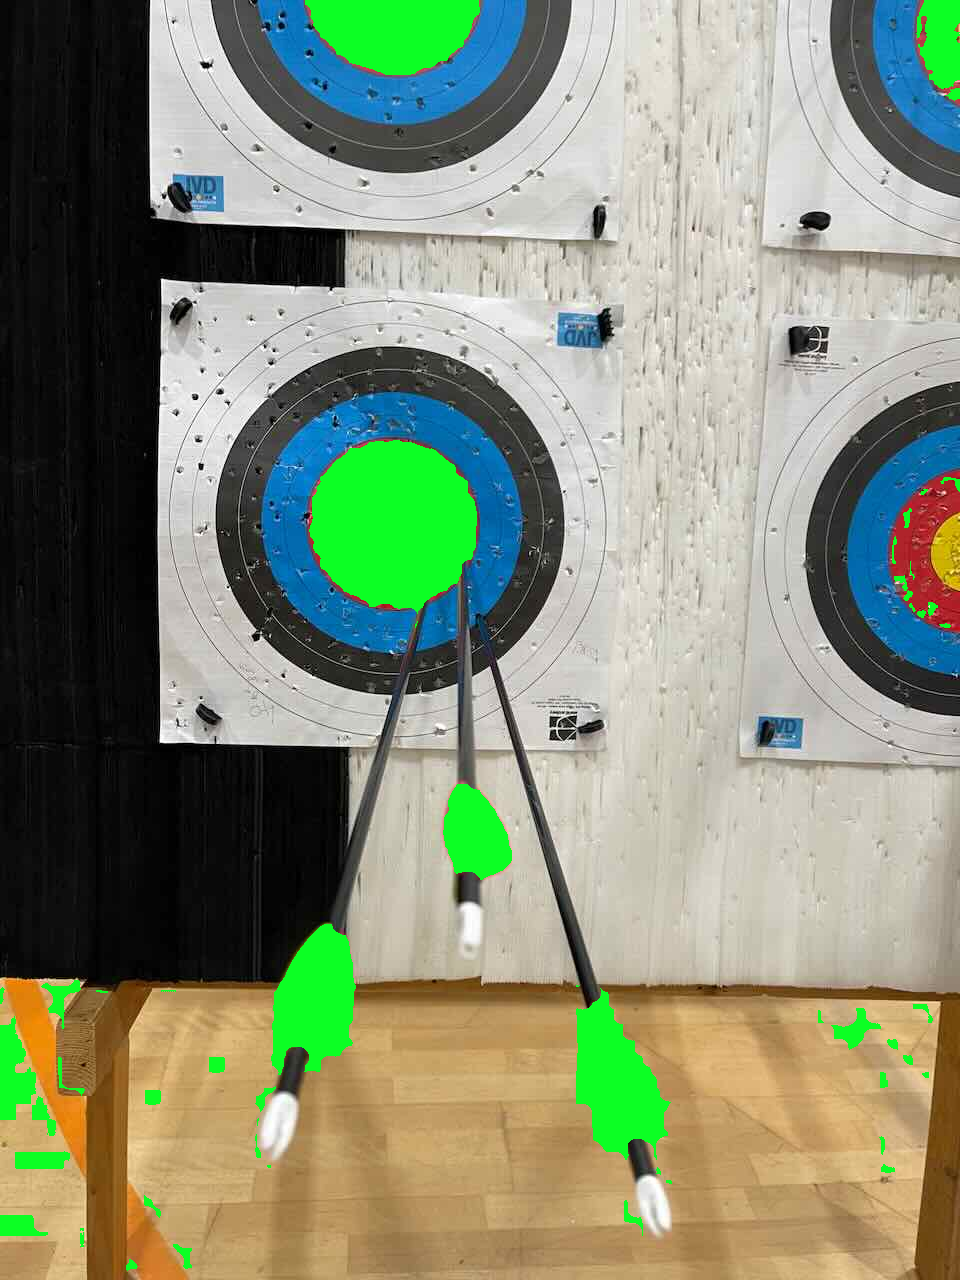
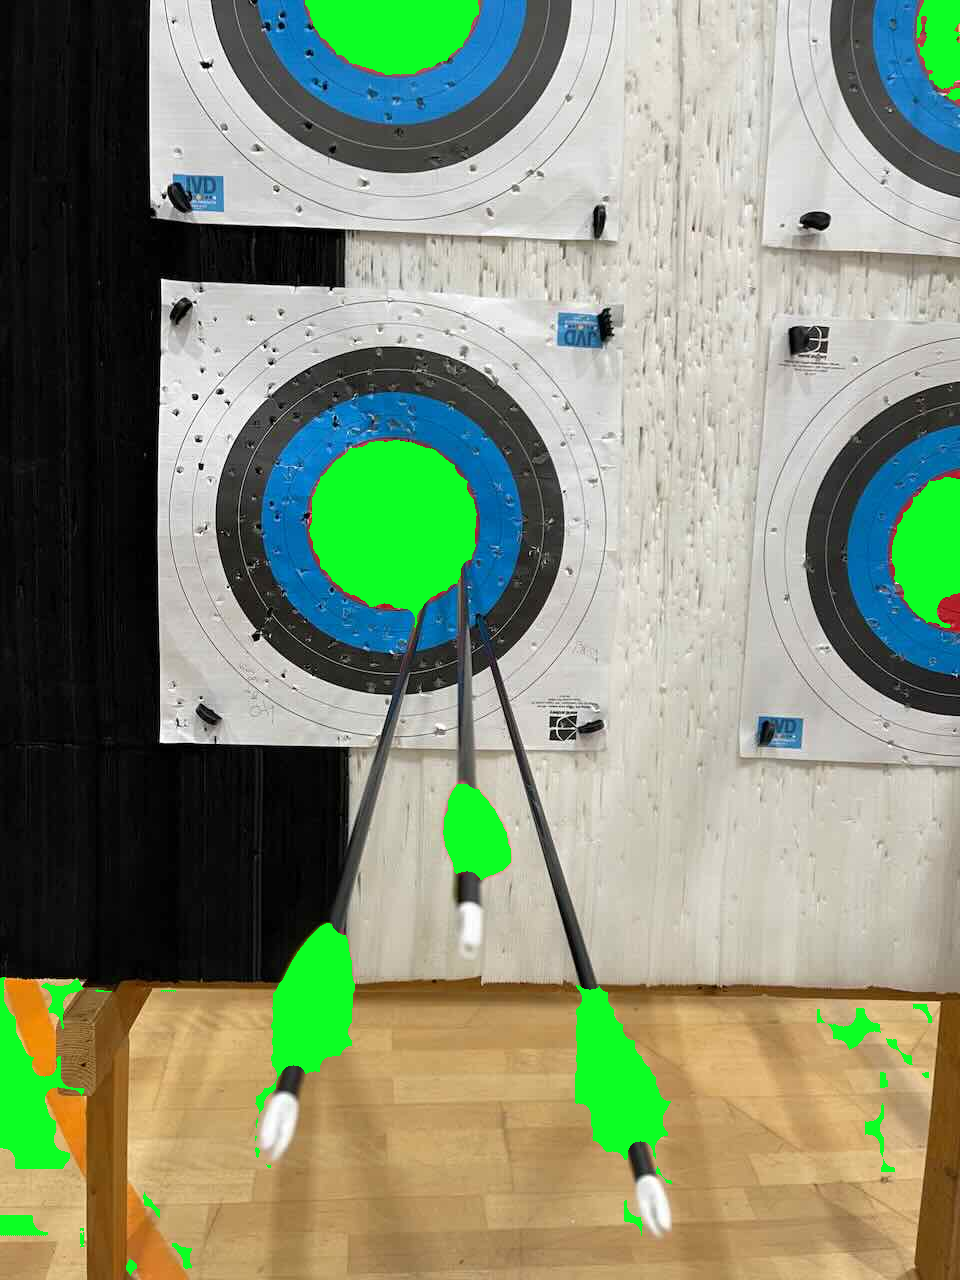
updating filename

diff --git a/mask_and_morph_close.py b/mask_and_morph_close.py
@@ -1,10 +1,24 @@
 import numpy as np
 import cv2
 
+# This code loads an image and converts it to the HSV color space.
+# Then, it sets a range of colors to detect (in this case, yellow)
+# and creates a binary mask that highlights the parts of the image that fall within that color range.
+# The code then finds the contours in the mask and filters them based on the number of vertices.
+# Finally, it draws the contours that meet the criteria on the original image and displays both
+# the mask and the original image with the contours drawn.
+# The resulting images are saved as "mask.png" and "original.png".
+
 # Load the input image
 image = cv2.imread('60cm/272.jpeg')
 original = image.copy()
 image = cv2.cvtColor(image, cv2.COLOR_BGR2HSV)
+
+
+# blue lower[100,50,50] upper[130,255,255]
+# yellow lower[20,100,100] upper[40,255,255]
+# red lower[0,50,50] upper[10,255,255]
+# red is good.
 
 # Define the color ranges for red and yellow
 lower_red = np.array([0, 100, 100], dtype="uint8")
@@ -26,18 +40,20 @@ cnts = cnts[0] if len(cnts) == 2 else cnts[1]
 print('Number of contours found: {}'.format(len(cnts)))
 
 # Create a kernel for morphological closing
-kernel = cv2.getStructuringElement(cv2.MORPH_ELLIPSE, (20, 20))
+kernel = cv2.getStructuringElement(cv2.MORPH_ELLIPSE, (25, 25))
 # Perform morphological closing on the contours
 closing = cv2.morphologyEx(mask, cv2.MORPH_CLOSE, kernel)
+
 # Find contours in the closed image
-cnts_closing = cv2.findContours(closing, cv2.RETR_EXTERNAL, cv2.CHAIN_APPROX_SIMPLE)
+cnts_closing = cv2.findContours(
+    closing, cv2.RETR_EXTERNAL, cv2.CHAIN_APPROX_SIMPLE)
 # Extract contours depending on OpenCV version
 cnts_closing = cnts_closing[0] if len(cnts_closing) == 2 else cnts_closing[1]
 print('Number of contours found after closing: {}'.format(len(cnts_closing)))
 
 contour_count = 0
 contour_count_closing = 0
-# Iterate through contours and filter by the number of vertices 
+# Iterate through contours and filter by the number of vertices
 for c in cnts:
     perimeter = cv2.arcLength(c, False)
     approx = cv2.approxPolyDP(c, 0.04 * perimeter, False)
